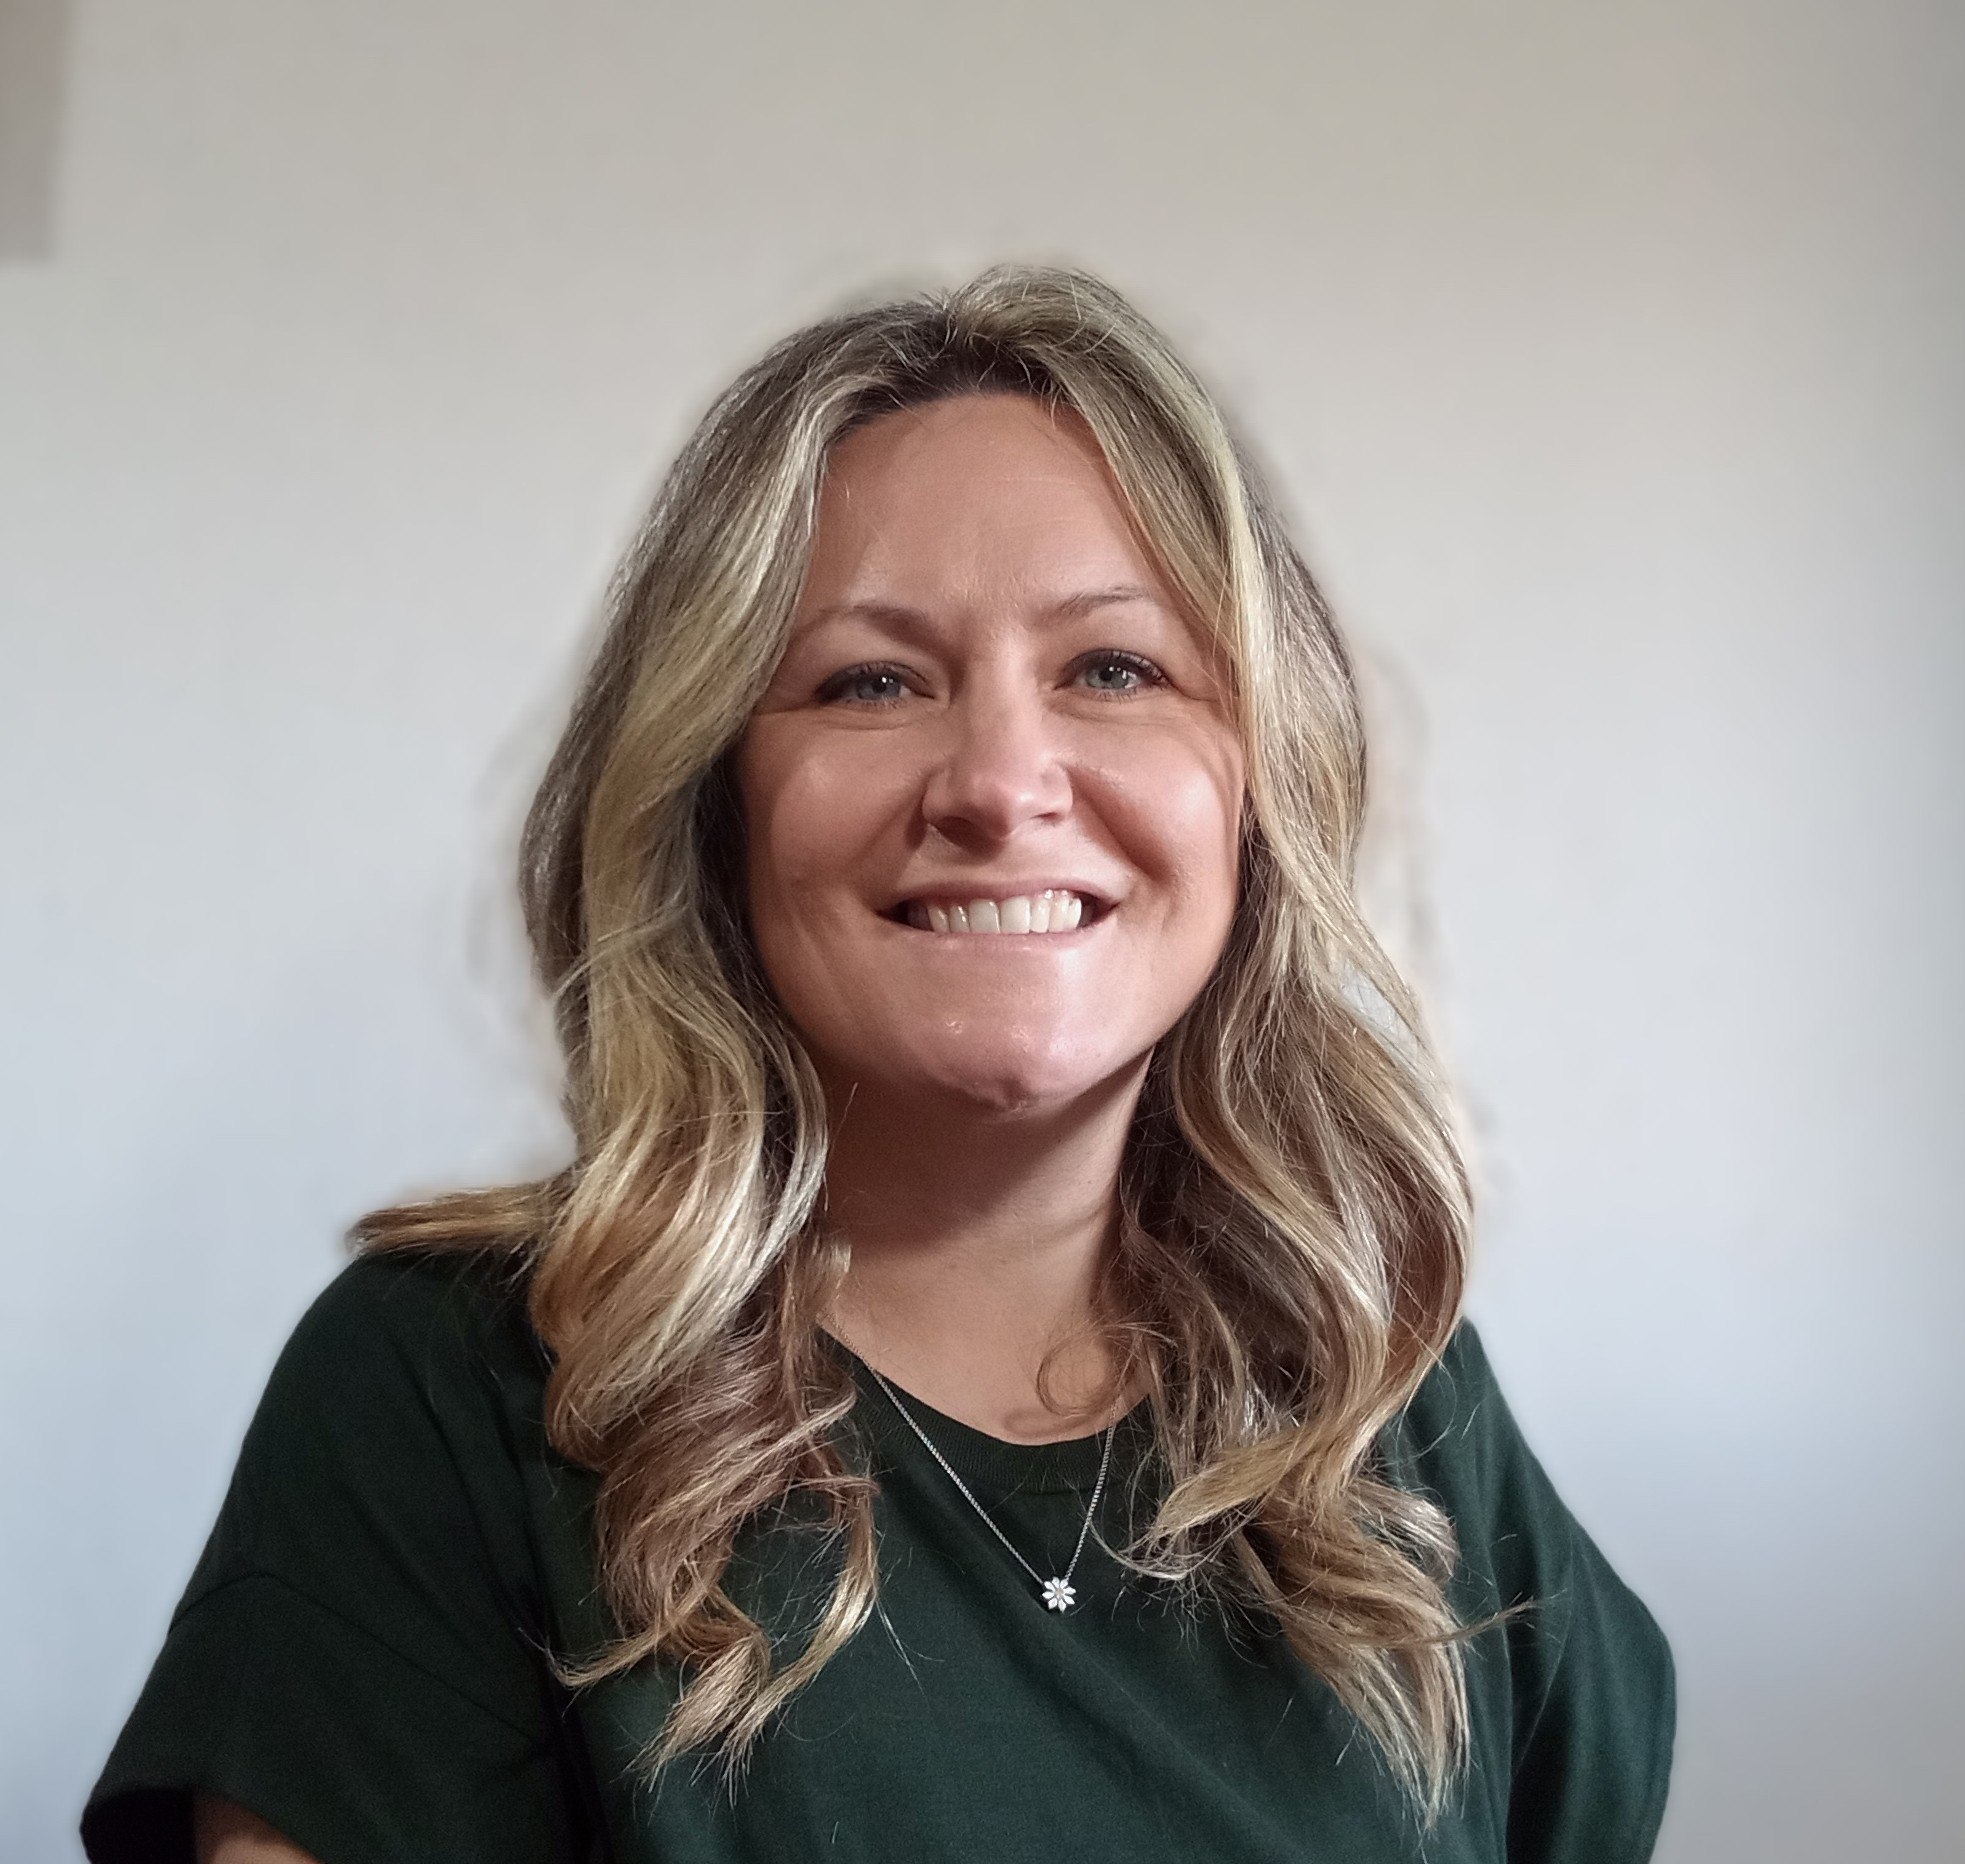
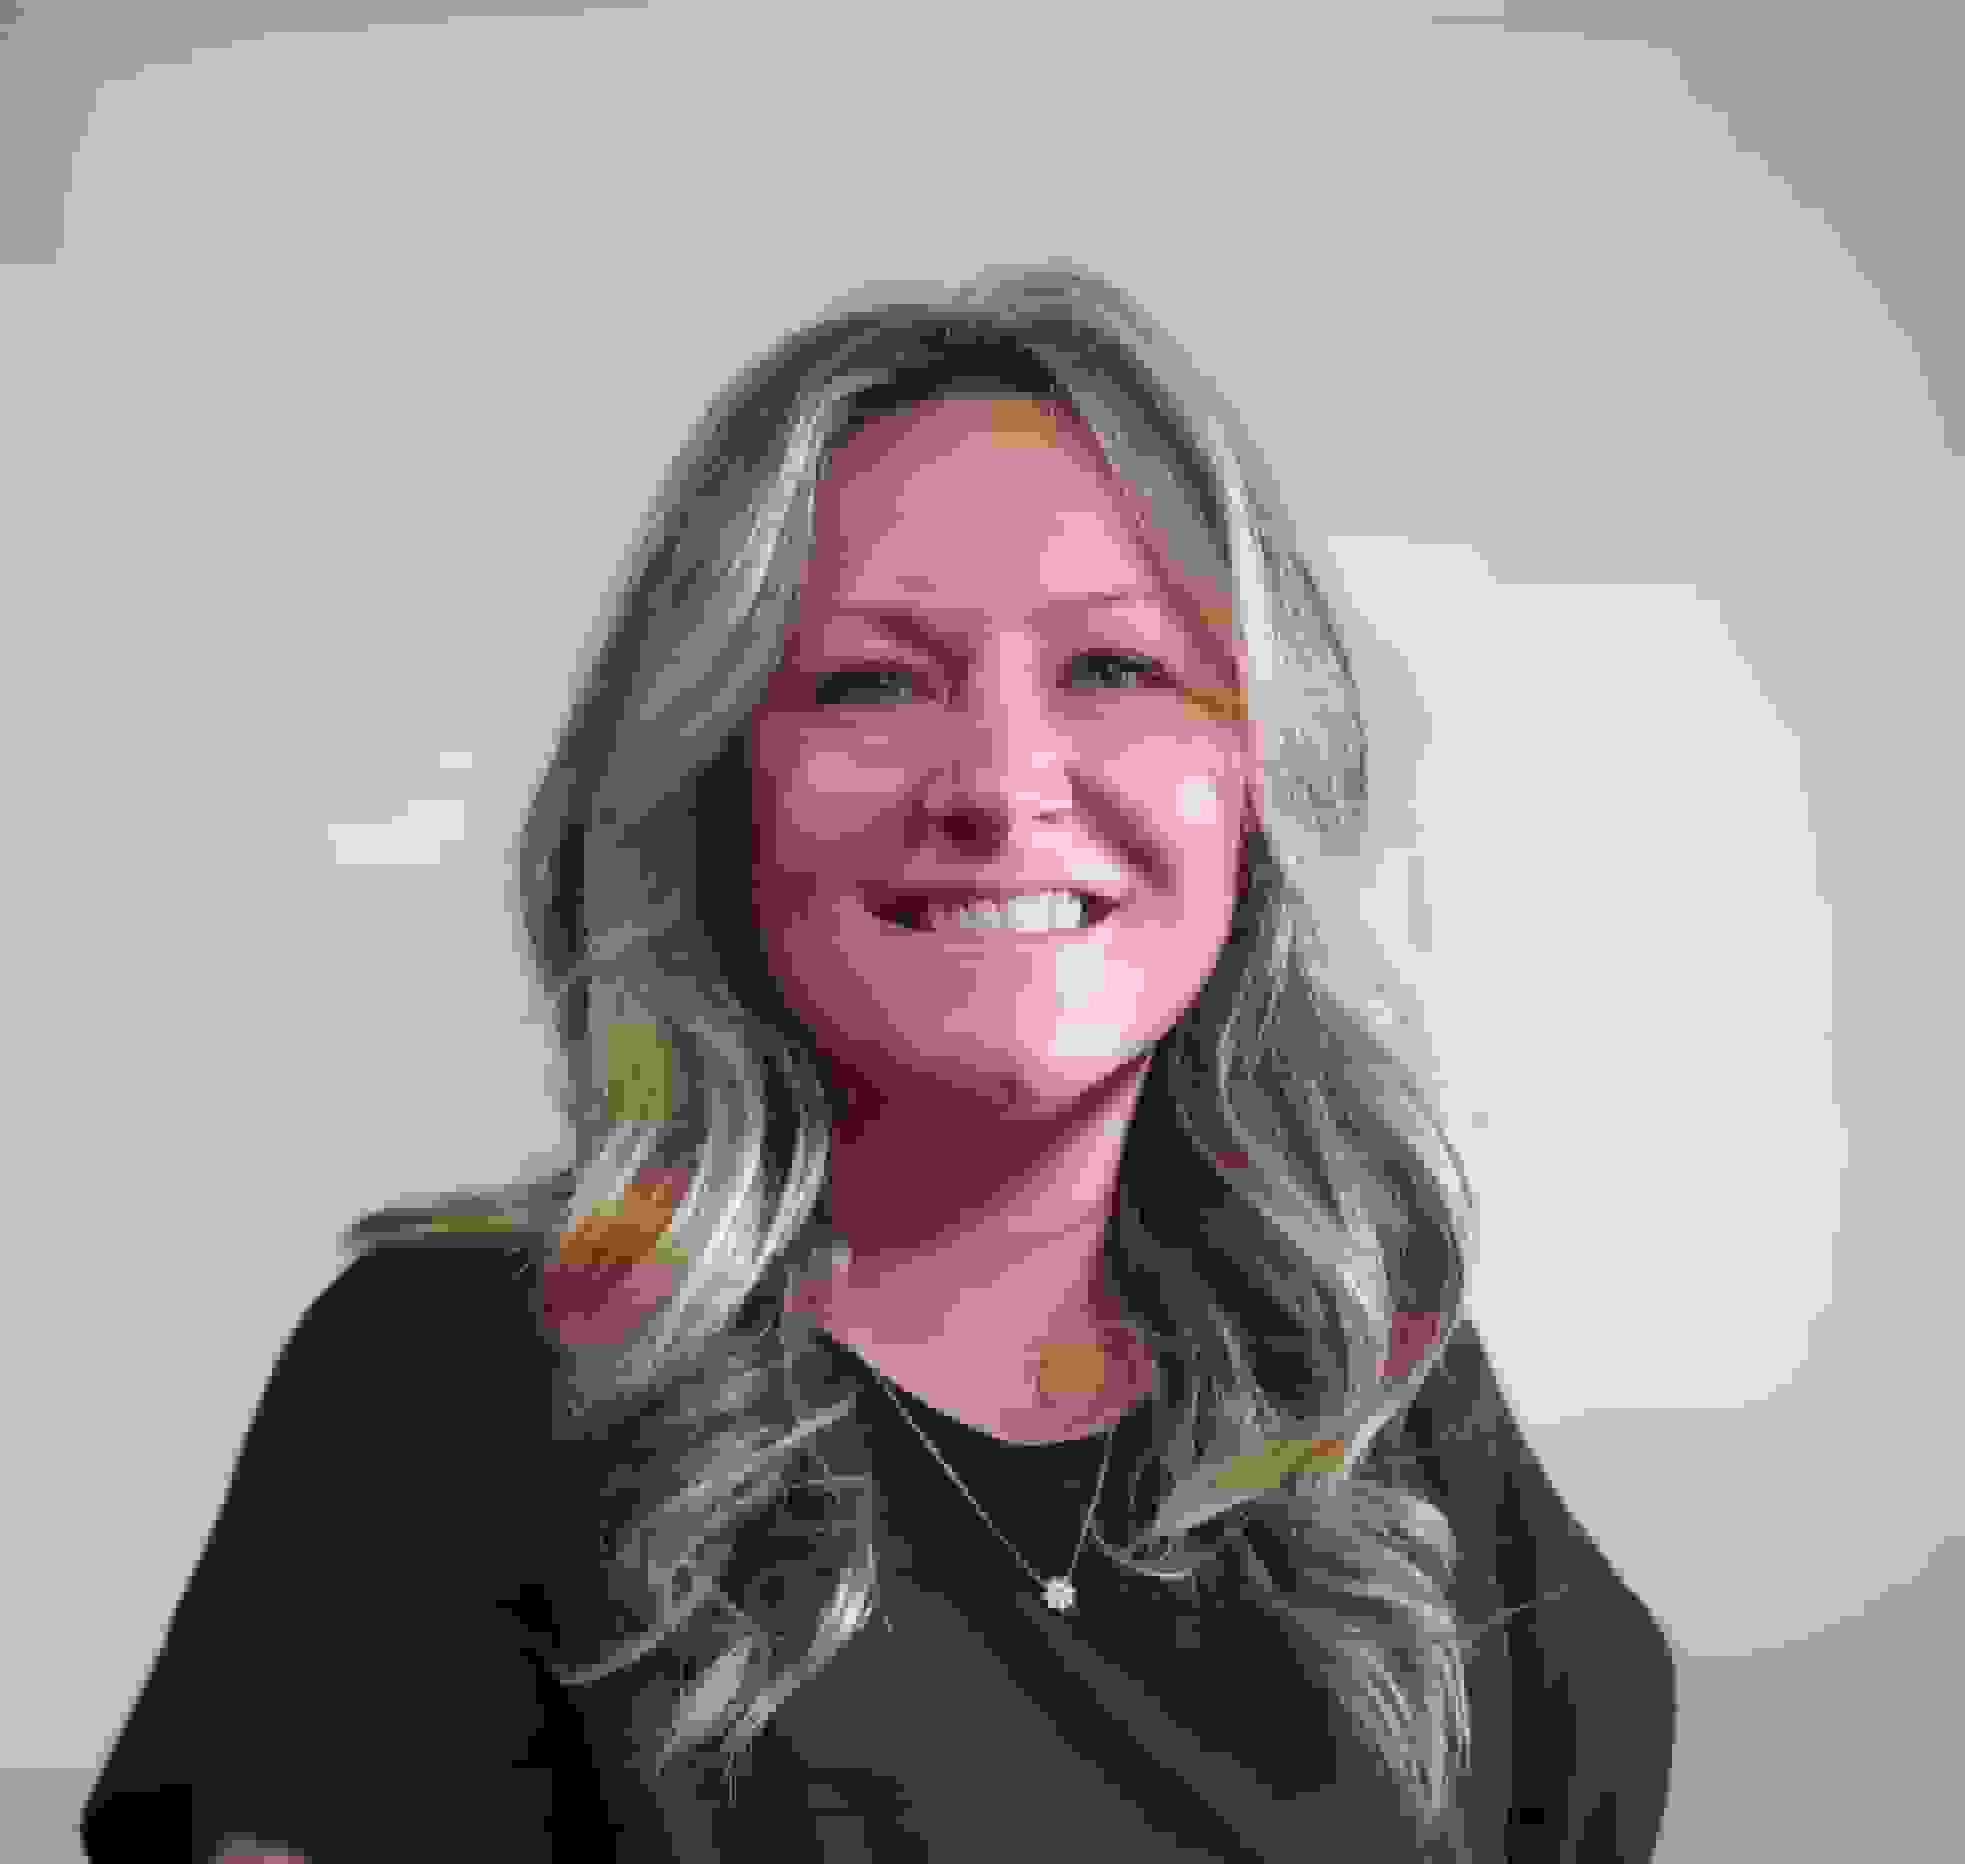
changes

diff --git a/wwr/contact.html b/wwr/contact.html
@@ -93,20 +93,21 @@
                 <fieldset>
                     <legend>What is your message about?</legend>
 
-                    <label>
-                        <input type="radio" name="purpose" value="general" required>
+                    <label for="general">
+                        <input type="radio" id="general" name="purpose" value="general" required>
                         General Inquiry
                     </label>
 
-                    <label>
-                        <input type="radio" name="purpose" value="reservation">
+                    <label for="reservation">
+                        <input type="radio" id="reservation" name="purpose" value="reservation">
                         Reservation Question
                     </label>
 
-                    <label>
-                        <input type="radio" name="purpose" value="suggestion">
+                    <label for="suggestion">
+                        <input type="radio" id="suggestion" name="purpose" value="suggestion">
                         Website Suggestion
                     </label>
+
                 </fieldset>
 
                 <div class="form-item">

diff --git a/wwr/styles/rafting.css b/wwr/styles/rafting.css
@@ -221,11 +221,6 @@ footer p {
     text-align: center;
 }
 
-.contact-info iframe {
-    display: block;
-    margin-top: 20px;
-}
-
 .employee-gallery {
     display: flex;
     justify-content: space-around;
